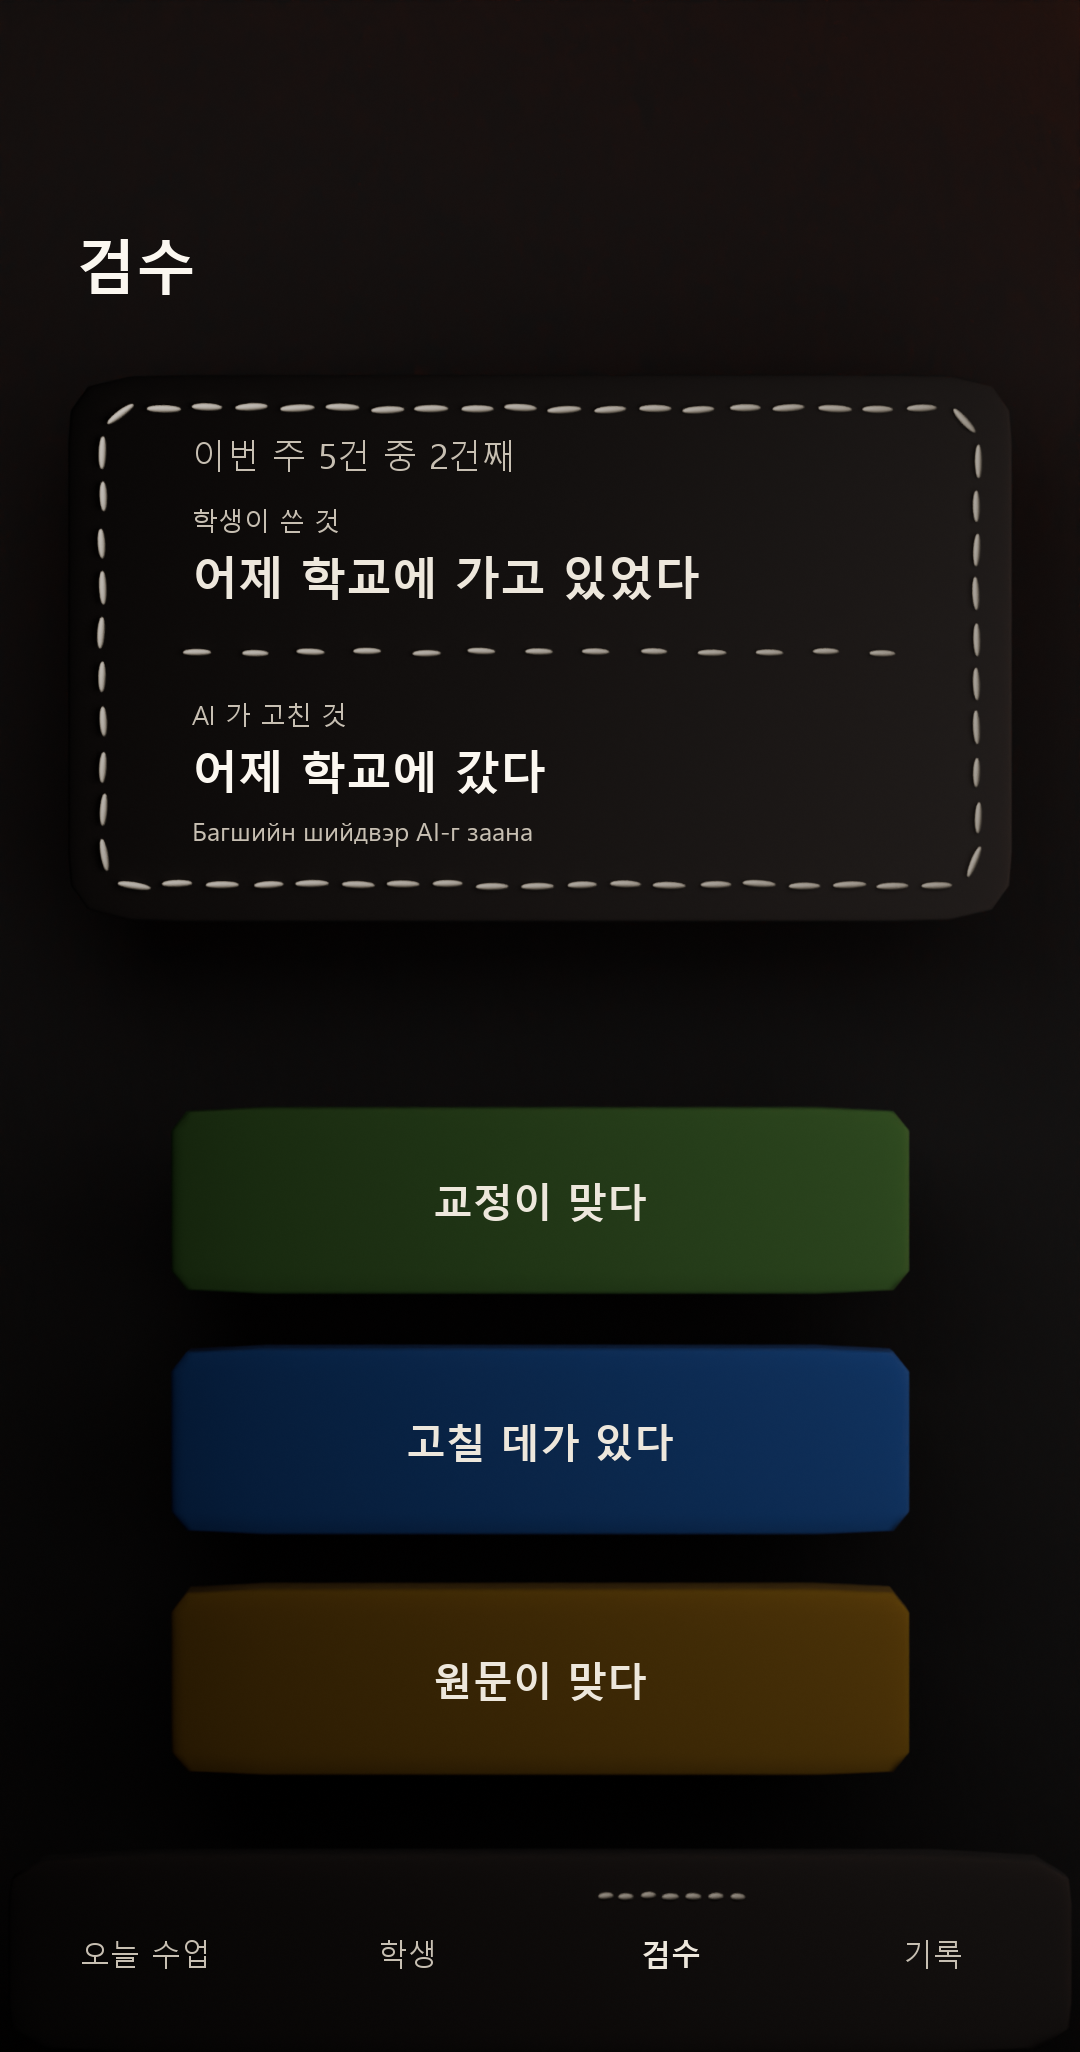
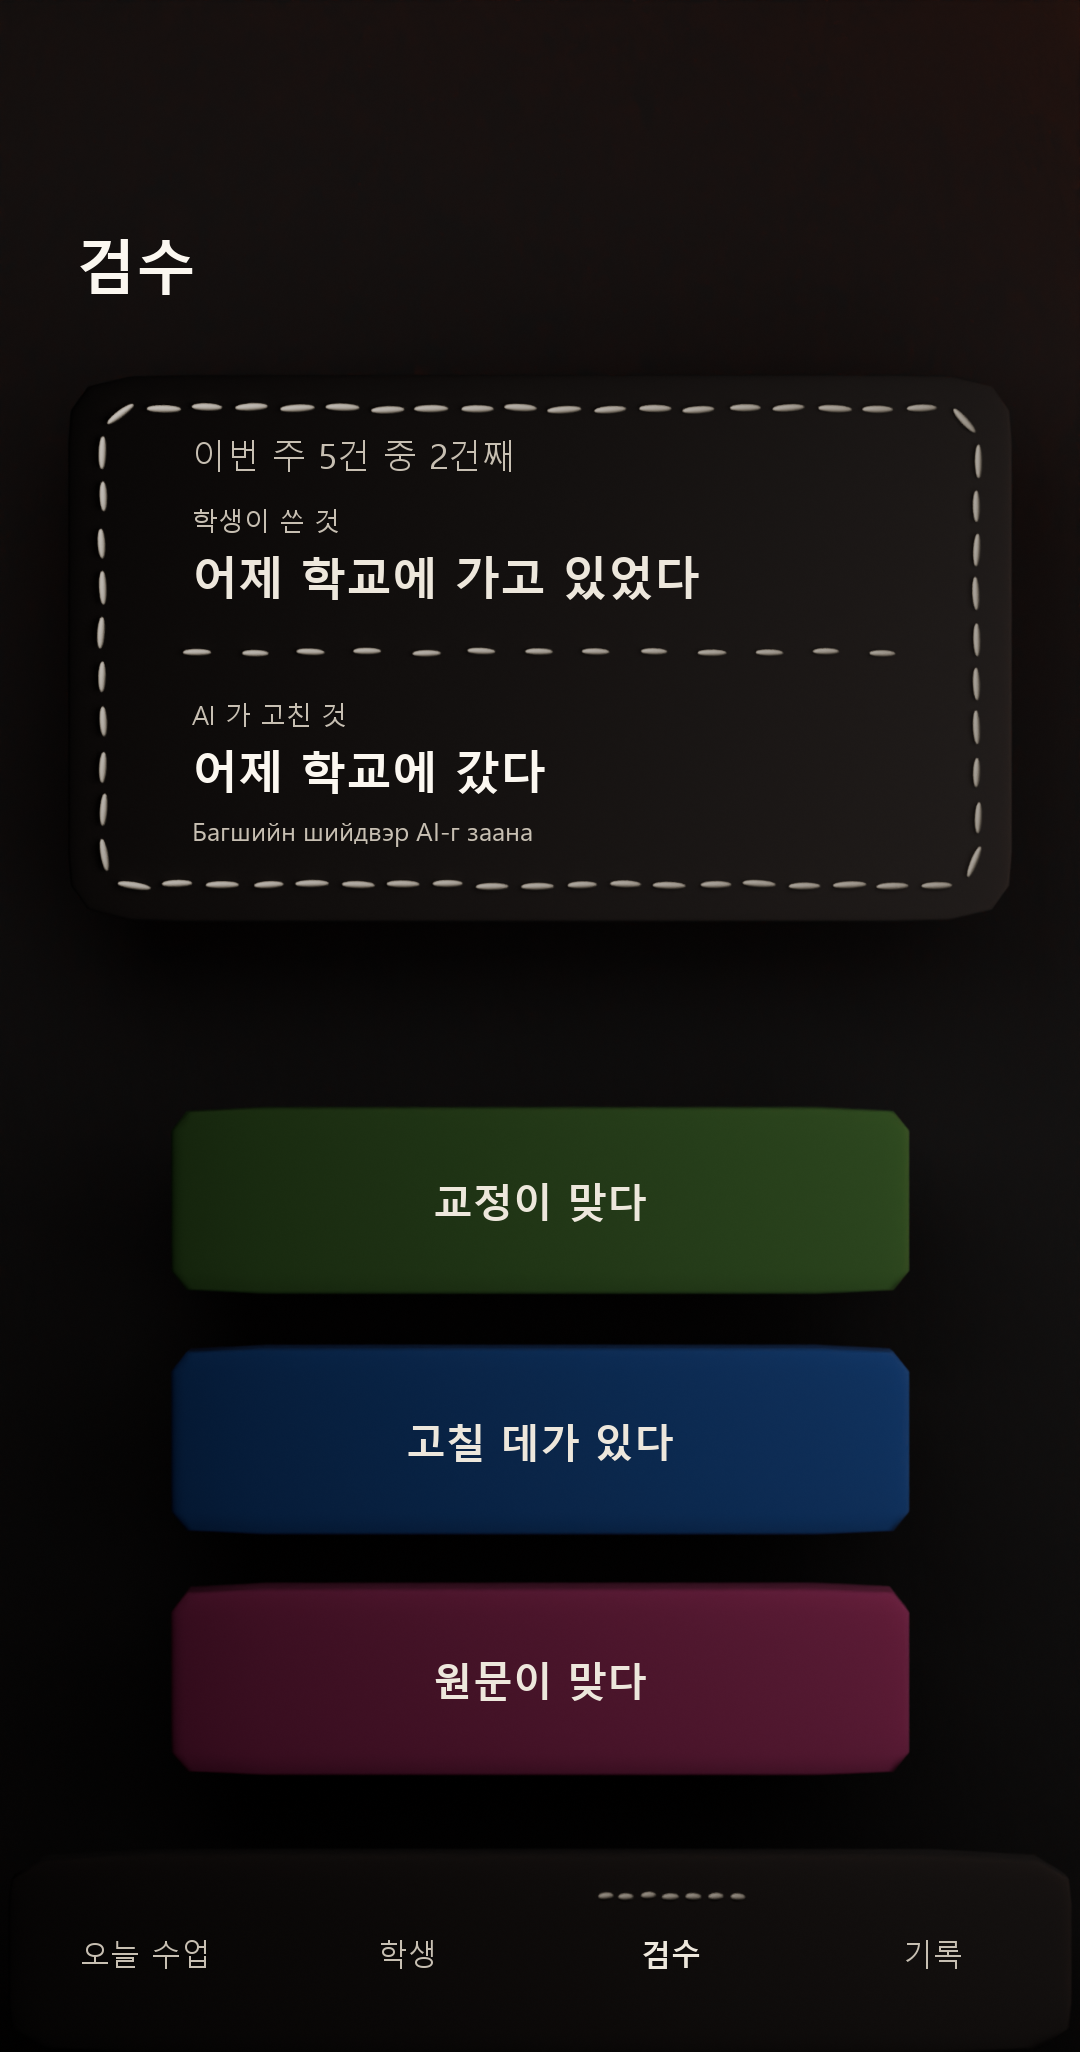
feat: 검수판 판정 셋째를 기념(Pop Deep)으로 확정한다
유호 픽 08-24 — 후보 셋(무채·보상 Butter Deep·기념 Pop Deep)을 나란히 구워 골랐다.

보상을 먼저 넣었다가 기념으로 바꾼 까닭 둘, 둘 다 렌더가 냈다:
  ① **갈림이 크다** — 세 면의 최소 ΔE 가 보상 22.9 · 기념 33.3(기준 15).
     정답(0.118)과 보상(0.118)은 **휘도가 같아** 색상 하나로만 갈렸다.
  ② **황동으로 읽힌다** — Butter Deep 은 시맨틱 정식 면색이라 규칙 위반은 아니지만,
     렌더가 금빛으로 앉아 DESIGN.md 「🚫 골드 복귀 금지 — 두 번째 액센트는 없다」와 눈이 부딪힌다.
     앞서 「뜻으로는 보상」이라 낸 내 판정을 접는다.

뜻도 성립한다: 「원문이 맞다」는 AI 가 틀린 드문 순간이고 엔진에는 «AI 오탐» 이라는 가장 값진
라벨이 된다 — 그래서 «기억할 일»이 맞다.

확정판 회귀
  · 갈림 ΔE ①↔② 48.8 · ②↔③ 33.3 · ①↔③ 47.7 → 최소 33.3
  · 글자 대비 전수 AAA
  · 화면 최밝 247(흰 글자) · 최밝 유채 97 — 알약이 화면 최밝을 안 뺏는다(4계 ② 유지)

⚠ 이 커밋의 결정.md 에는 **다른 세션이 먼저 적어 둔 줄 하나**(AI 활용 가이드 확정 셋)가 함께 실린다.
  작업본에 이미 완성된 채로 있었고 append 라 반쯤 된 일이 아니다 — 남겨 두면 잃을 위험이 더 크다.
  나머지 경로는 내 것만 담았다(다른 세션이 요소 156장 1800px 되굽기를 돌리는 중이라 PNG 가 대량으로 떠 있다).

Session-Id: local_7f333ae2-2b96-4c2d-8162-34cea81fcb8e

Changed region(s): [[0.1528, 0.7485, 0.8556, 0.8733]]

diff --git a/tools/요소굽기.py b/tools/요소굽기.py
@@ -4023,13 +4023,17 @@ def 검수판():
     #   🔴 08-23 수리: 이 주석은 「색이 셋」이라 적어 놓고 **코드는 둘만 칠하고 셋째를 None 으로
     #      뒀다**(유호 지적 「색상을 하나 더 추가하면 되는거 아니야?」). 고르는 것들은 서로 갈려야
     #      하는데 하나만 무채면 그것이 «못 고르는 것»으로 읽힌다 — 셋 다 정당한 선택지다.
-    #      셋째를 **보상(Butter Deep)** 으로 준다: 「원문이 맞다」는 학생의 글이 인정받는 순간이고,
-    #      엔진에는 «AI 오탐» 이라는 가장 값진 라벨이 된다. 나쁜 일이 아니므로 코랄은 안 쓴다
+    #      셋째를 **기념(Pop Deep)** 으로 준다(유호 픽 08-24 · 후보 셋을 나란히 구워 골랐다).
+    #      「원문이 맞다」는 AI 가 틀린 드문 순간이고 엔진에는 «AI 오탐» 이라는 가장 값진 라벨이 된다 —
+    #      그래서 «기억할 일»이 뜻으로도 맞다. 나쁜 일이 아니므로 코랄은 안 쓴다
     #      (코랄을 «면»으로 넓히면 경고로 읽히고, 이 저장소에서 코랄은 «점 하나»의 언어다).
-    #   ⚠셋 다 어둡다(정답 0.118 · 안내 0.064 · 보상 0.118) — 코랄 신호(0.308)를 안 넘으므로
-    #     4계 ②가 안 깨진다. 다만 정답과 보상은 **휘도가 같다** — 갈리는 것은 밝기가 아니라 색상이라
-    #     이 자리는 눈이 아니라 렌더로 확인했다(초록 대 황토는 이 조명에서 뚜렷이 갈린다).
-    알천 = ['정답_면', '안내_면', '보상_면']
+    #   🔴 보상(Butter Deep)을 먼저 넣었다가 기념으로 바꿨다. 까닭 둘, 둘 다 렌더가 냈다:
+    #     ① **갈림이 크다** — 세 면의 최소 ΔE 가 보상 22.9 · 기념 33.3(기준 15).
+    #        정답(0.118)과 보상(0.118)은 **휘도가 같아** 색상 하나로만 갈렸다.
+    #     ② **황동으로 읽힌다** — Butter Deep 은 시맨틱 정식 면색이라 규칙 위반은 아니지만,
+    #        렌더가 금빛으로 앉아 DESIGN.md 「🚫 골드 복귀 금지 — 두 번째 액센트는 없다」와 눈이 부딪힌다.
+    #   ⚠셋 다 어둡다(정답 0.118 · 안내 0.064 · 기념 0.091) — 코랄 신호(0.308)를 안 넘으므로 4계 ②는 안 깨진다.
+    알천 = ['정답_면', '안내_면', '기념_면']
     for 번, z in enumerate((-0.10, -0.72, -1.34)):
         알 = 베개몸((0.95, 0.1, 0.24), 위치=(0, 0.55, z), 크리스=0.62)
         천 = 뜻색(알천[번]) if 알천[번] else 색['Ink']

diff --git a/docs/_ops/결정.md b/docs/_ops/결정.md
@@ -59,6 +59,7 @@ node tools/결정.js --추가 "결정문" --성격 안전 --근거 "…"        
 
 | 날짜 | 성격 | 결정 | 근거 |
 |---|---|---|---|
+| 2026-08-24 | 확정 | 검수판 판정 셋째(원문이 맞다)는 기념(Pop Deep)이다 — 코드 주석이 이미 「판정 셋은 뜻이 셋이라 색이 셋」이라 적어 놓고 구현이 둘에서 멈춰 셋째가 무채였다. 고르는 것들 중 하나만 무채면 그것이 «못 고르는 것»으로 읽힌다. 보상(Butter Deep)을 먼저 넣었다가 기념으로 바꿨다: 갈림이 크고(최소 ΔE 22.9→33.3) 황동으로 읽혀 DESIGN.md 골드 복귀 금지와 눈이 부딪혔다 | 유호 지적 08-23 「색상을 하나 더 추가하면 되는거 아니야?」 · 유호 픽 08-24 「기념으로 바꿀까?」 · 후보 셋 렌더 대조 |
 | 2026-08-24 | 확정 | 철학 정본 v1.10 증보 — Ⅰ-3 ⑤ «자기설명» 신설(08-22 확정의 정본 승격 · 유호 지시 08-24 「철학 정본 업그레이드 시켜줘」). 완결 게이트가 ④엔진까지 닿았나만 재고 ⑤사람에게 닿았나를 안 재던 자리를 닫음 | 유호 확정 08-24 |
 | 2026-08-23 | 확정 | AI 활용 가이드 방향 확정 셋 — ①바깥 AI는 «숙제별로 갈라 가르친다»(금지가 아니라 판단을 가르친다 · 수업 1회 교안 + 앱 문구 제작) ②학부모 A4 한 장 «만든다» ③학생용 네 낱말 «맡기기·부탁하기·가려보기·책임지기» 이대로 확정 → 몽골어 번역 단계로. 정본 = docs/AI활용_가이드_v2.md | 유호 확정 08-23 |
 | 2026-08-23 | 확정 | 옛 몽글(08-13 유리 몸 렌더) talk 잔존 소각 — 앱 컷을 펠트코랄_0815 누끼 4벌(본체 알파수리판·놀람 합성판·눈웃음·눈감음 · 336px WebP)로 교체, 옛 6벌 삭제. 기쁨은 눈웃음으로 임시 접힘(펠트 깜찍판 미존재 — 서는 날 한 줄 복귀), 별눈은 컷 어휘 제거(게이트는 유지). 원인 = 08-19 대개편·F659 퇴역이 원본 폴더는 지웠지만 형제 저장소 talk의 «변환본»은 스캔 밖이었다(kit-change-needs-talk-sweep 그 병의 마스코트판). 재발 봉인 = talk 회귀가 표정컷 전 값에 재염색_ 접두를 요구(옛 렌더가 어휘에 서면 즉시 빨강) | 유호 지적 08-23 「왜 아직도 예전 버전의 몽글이냐 — 전수조사해라」 · talk 11c5848 |
